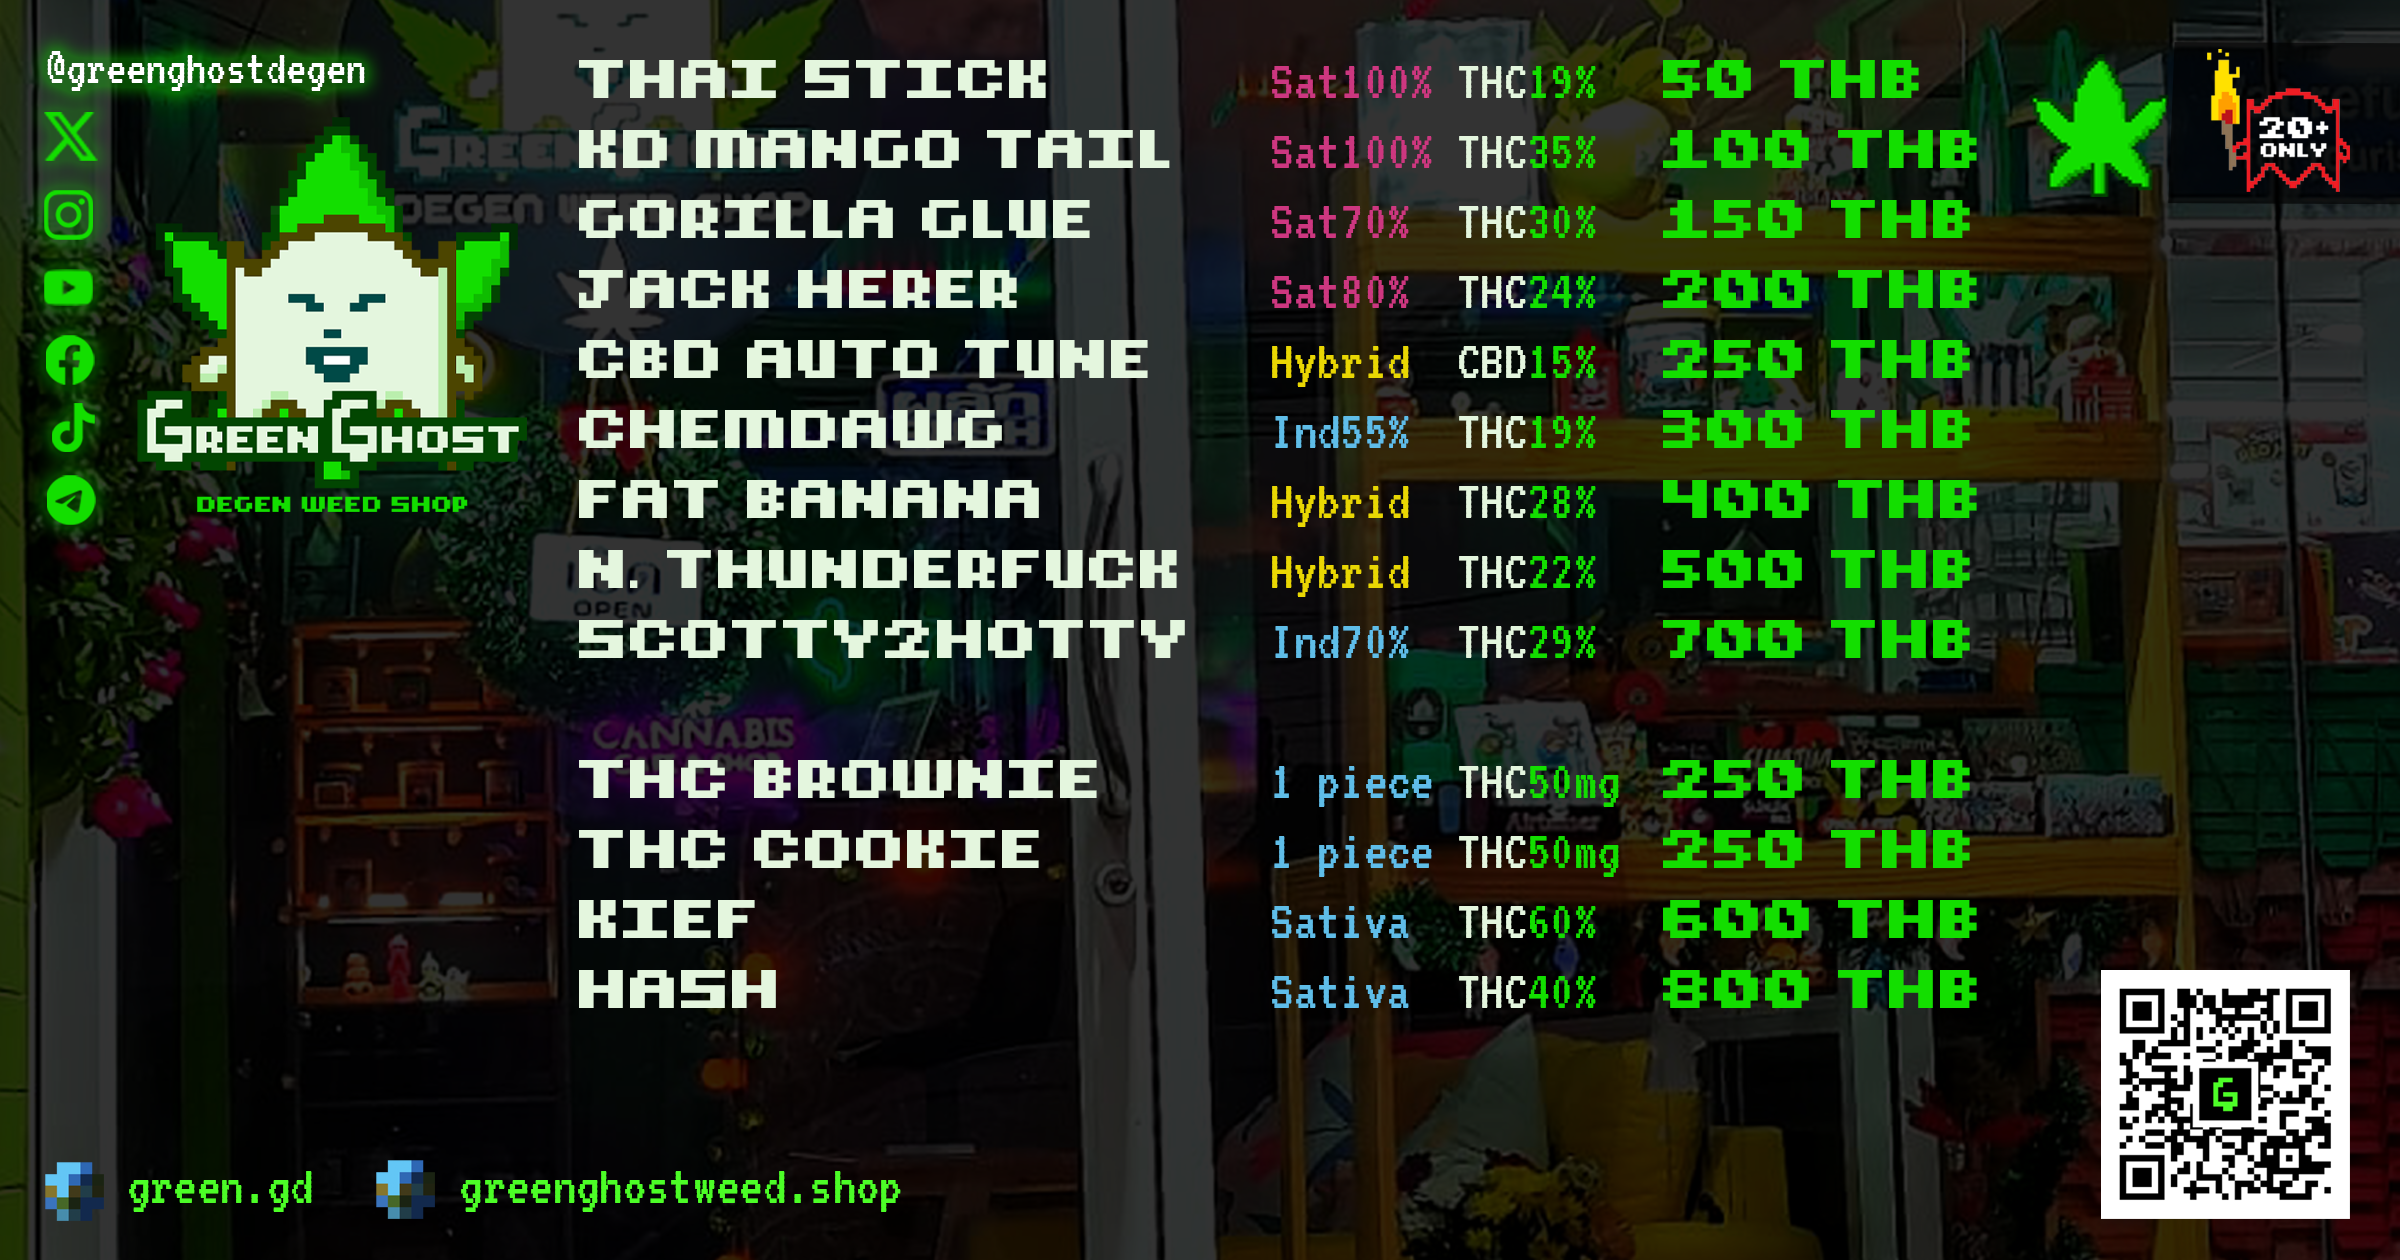
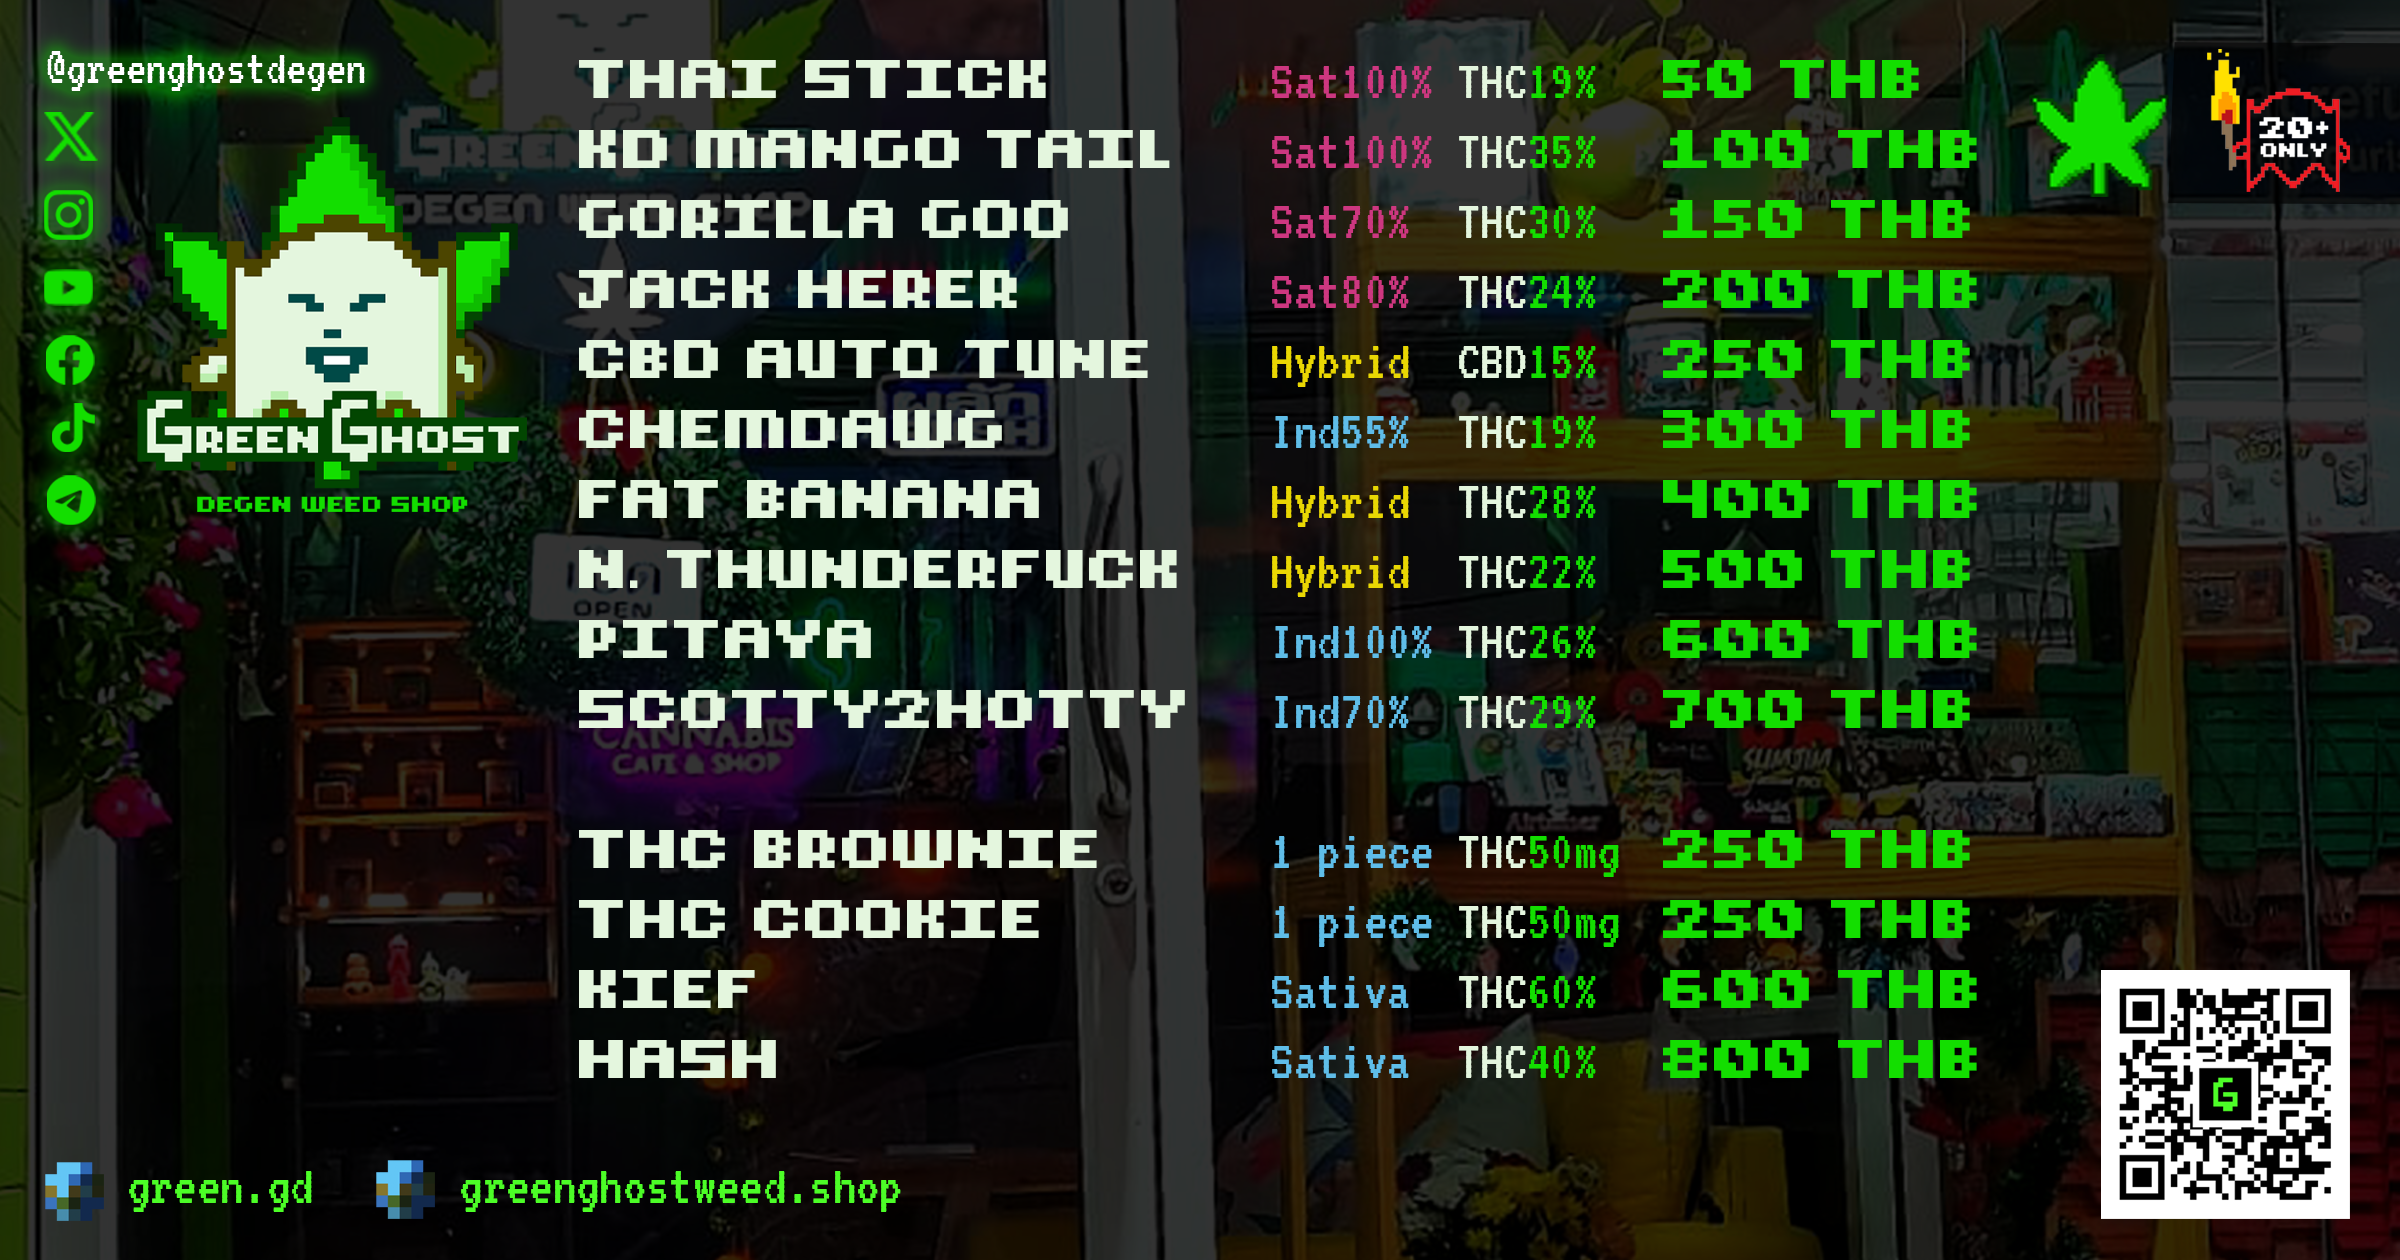
Update menu

diff --git a/config/buds.ts b/config/buds.ts
@@ -83,6 +83,36 @@ export const buds: Bud[] = [
     source: 'https://www.leafly.com/strains/scotty-2-hotty',
   },
   {
+    slug: 'pitaya',
+    name: 'Pitaya',
+    price: 600,
+    dominance: 'Indica',
+    indica: '100',
+    sativa: '0',
+    THC: '26',
+    CBD: '0',
+    effects: 'Giggly, Hungry, Relaxed',
+    relieves: 'Stress, Headaches, Pain',
+    grower: 'Green Ghost',
+    growerSlug: '/',
+    environment: 'Indoor',
+    harvest: '10/03/2024',
+    quantity: 89,
+    origin: 'Phuket',
+    description:
+      "Pitaya, a 100% Indica dominant hybrid, is a mesmerizing fusion of OG Kush, OG Kush Breath, and Girl Scout Cookies. This exquisite strain captivates connoisseurs with its exceptional flavor profile, blending the sweetness of nutty cookies with the robust undertones of rich, earthy pine. Each toke tantalizes the palate, offering a mouthwatering experience that leaves a lasting impression. With a THC content averaging at an impressive 26%, Pitaya promises a potent and memorable high, showcasing the best of its genetic lineage. \n\n Originating from the United States, Pitaya's aroma mirrors its delectable flavor profile, exuding a captivating blend of sweet and earthy notes. As the nugs are ignited, a pungent herbal twist unfolds, intensifying the aromatic journey. This strain invites users into a realm of euphoria and upliftment, enveloping the mind in a blissful haze. While the experience may be somewhat stoney and unfocused, it offers a profound sense of relaxation and contentment that resonates deeply with enthusiasts. \n\n Beyond its delightful flavor and aroma, Pitaya boasts a versatile terpene profile that may manifest in a range of tastes, from fruity and spicy to earthy, sour, and piney. Its therapeutic potential is equally diverse, offering relief from various ailments such as pain, anxiety, and lack of appetite. While the strain's euphoric and calming effects are widely celebrated, users should be mindful of potential side effects, including mild anxiety and dry mouth, ensuring a balanced and enjoyable experience.",
+    descSeo:
+      'Pitaya, a 100% Indica dominant hybrid, is a mesmerizing fusion of OG Kush, OG Kush Breath, and Girl Scout Cookies. This exquisite strain captivates connoisseurs with its exceptional flavor profile, blending the sweetness of nutty cookies with the robust undertones of rich, earthy pine. Each toke tantalizes the palate, offering a mouthwatering experience that leaves a lasting impression. With a THC content averaging at an impressive 26%, Pitaya promises a potent and memorable high, showcasing the best of its genetic lineage.',
+    images: [
+      '/media/green-ghost-degen-weed-shop-strain-pitaya-cover.webp',
+      '/media/green-ghost-degen-weed-shop-strain-pitaya-cover.webp',
+      '/media/green-ghost-degen-weed-shop-strain-pitaya-cover.webp',
+      '/media/green-ghost-degen-weed-shop-strain-pitaya-cover.webp',
+    ],
+    imgDesc: 'Green Ghost - Degen Weed Shop - Strain Pitaya',
+    source: 'undefined',
+  },
+  {
     slug: 'cbd-auto-tune',
     name: 'CBD Auto tune',
     price: 250,

diff --git a/components/StrainWeek.tsx b/components/StrainWeek.tsx
@@ -114,12 +114,12 @@ export const StrainWeek = () => {
           >
             Try our new{' '}
             <Link
-              href="/weed-shop/jack-herer"
-              title="New weed Strain - Jack Herer!"
+              href="/weed-shop/pitaya"
+              title="New weed Strain - Pitaya!"
               passHref
             >
               <Box as={'span'} color={'ghostVerse.blue.base'}>
-                {'Jack Herer'}
+                {'Pitaya'}
               </Box>
             </Link>{' '}
             and{' '}
